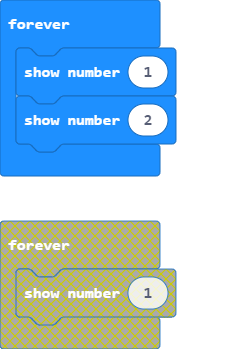
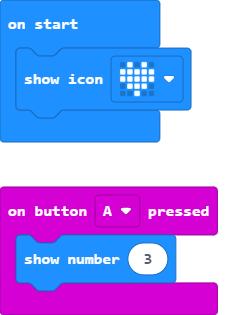
Update main.blocks, main.ts

diff --git a/main.ts b/main.ts
@@ -1,3 +1,7 @@
+input.onButtonPressed(Button.A, function () {
+    basic.showNumber(3)
+})
+basic.showIcon(IconNames.Heart)
 basic.forever(function () {
     basic.showNumber(1)
     basic.showNumber(2)
